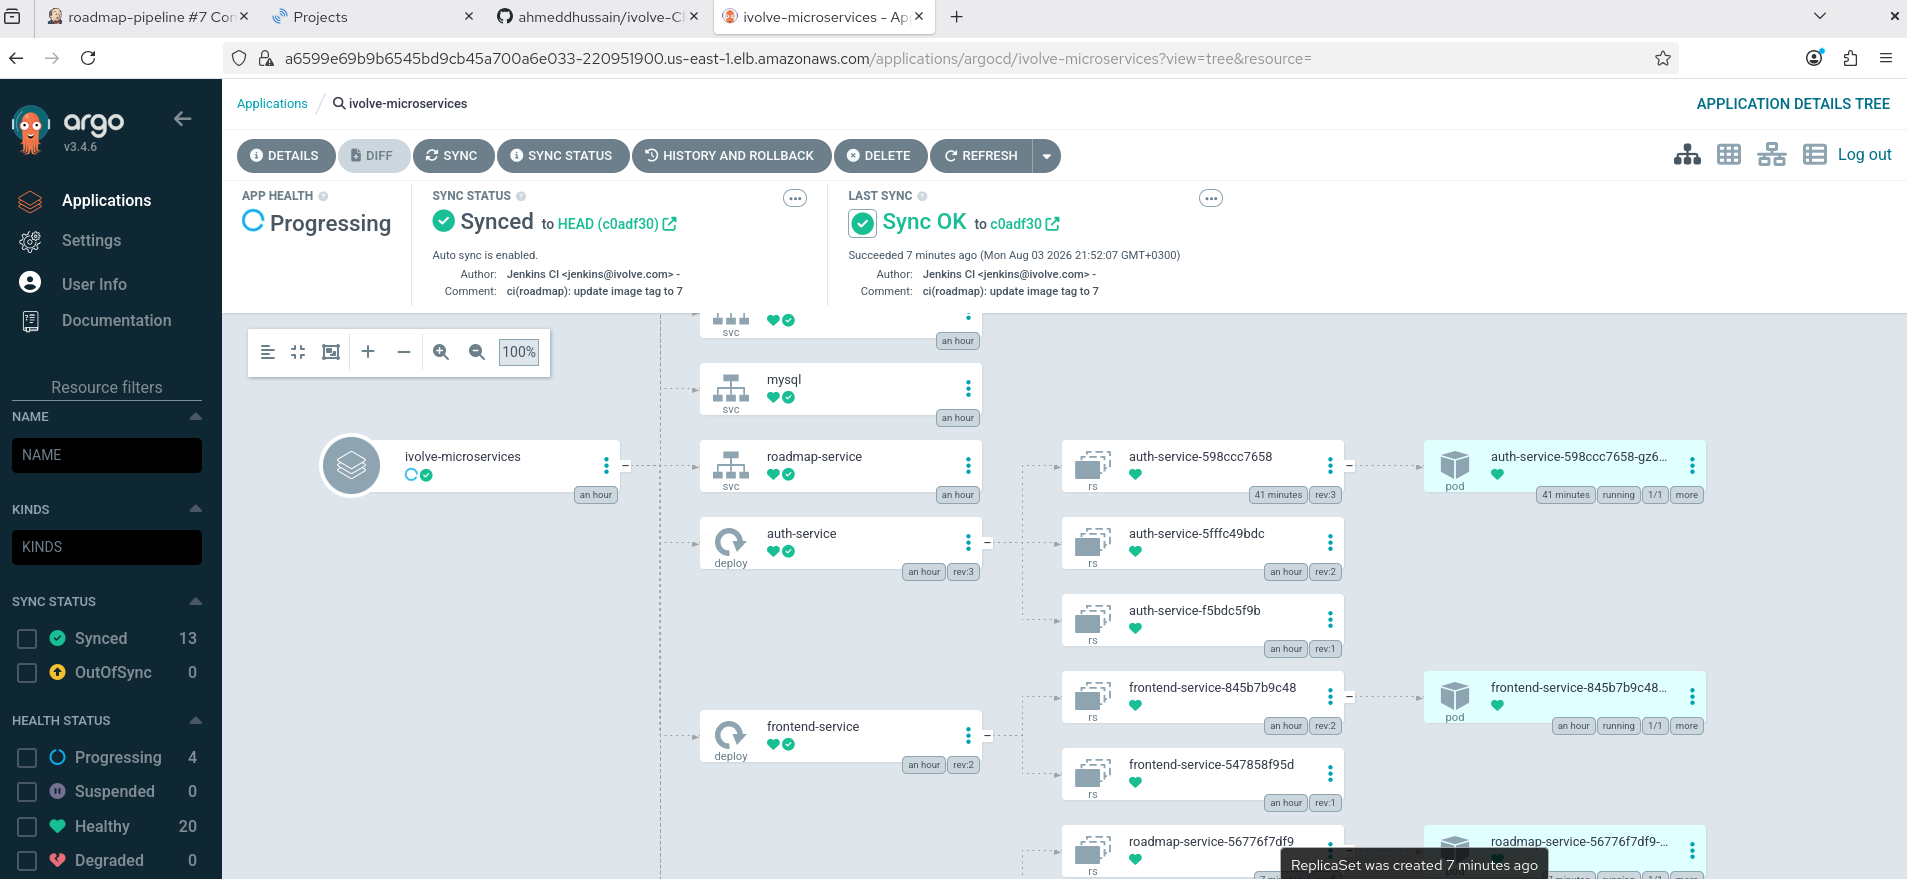
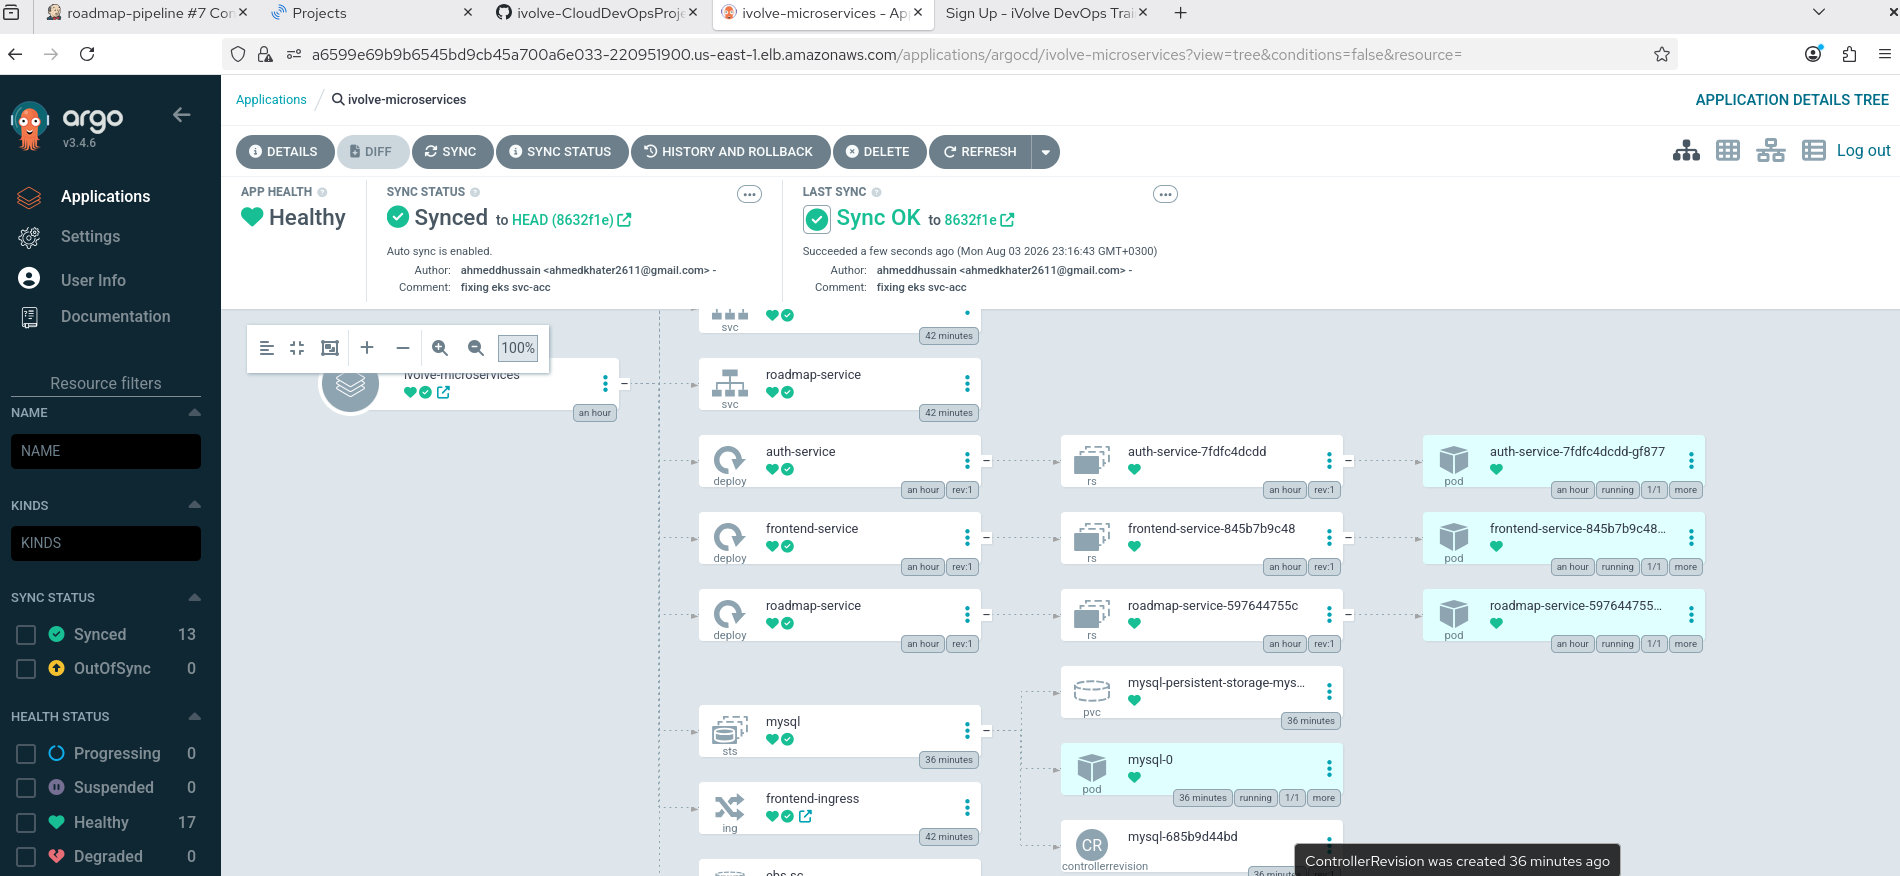
fixing env

diff --git a/README.md b/README.md
@@ -500,7 +500,56 @@ Then use the `EXTERNAL-IP` coloumn and login using `admin` and output initial pa
 * Frontend Ingress provisioned the AWS Application Load Balancer.
 
 ![alt text](screenshots/image-12.png)
+
 ---
+## System Verification & End-to-End Application Testing
+
+This section outlines the testing procedures used to verify the platform infrastructure and validate end-to-end application functionality across all microservices and the persistent database.
+
+---
+
+####  Platform Infrastructure Verification
+
+* **Terraform Provisioning:** Verified S3 backend remote state locking and resource provisioning (VPC, Subnets, EKS Cluster, ECR Repositories, EC2 Instance).
+* **Ansible Configuration:** Verified zero-touch provisioning of Java 21, Docker, Trivy, SonarQube Server (Port 9000), and Jenkins (Port 8080).
+* **Jenkins CI Pipelines:** Verified 100% green build execution across all 3 microservices (`frontend-pipeline`, `auth-pipeline`, `roadmap-pipeline`) covering:
+  1. SonarQube Code Quality Analysis
+  2. Docker Image Build
+  3. Trivy Container Security Scan
+  4. AWS ECR Image Push
+  5. Local Docker Image Cleanup
+  6. Kubernetes Manifest Image Tag Update (`k8s/*.yml`)
+  7. Git Push back to GitHub
+* **ArgoCD GitOps CD:** Verified automated synchronization from GitHub `k8s/` manifests to live pods in the EKS `ivolve` namespace.
+
+---
+
+#### End-to-End Application Functionality Testing
+
+To validate full system functionality, traffic was tested flowing from the public Frontend interface through the backend microservices down to the persistent MySQL database.
+
+##### Step 1: Access Frontend Web Application
+Open the public Ingress Load Balancer URL in your browser:
+```text
+http://<AWS_LOADBALANCER_URL>
+```
+![alt text](screenshots/image14.png)
+![alt text](screenshots/image13.png)
+
+##### Step 2: Test Authentication Microservice (auth-service)
+ - Navigate to the Sign Up / Register page on the Frontend UI.
+ - Create a new test user account (Username: testuser, Password: testpassword123).
+ - The Frontend sends an HTTP POST request to auth-service (Port 5000), which processes the request and writes the user record into MySQL.
+ - Log in with the newly created credentials to confirm JWT token generation.
+
+
+
+
+
+
+
+
+
 
 ## Troubleshooting
 
